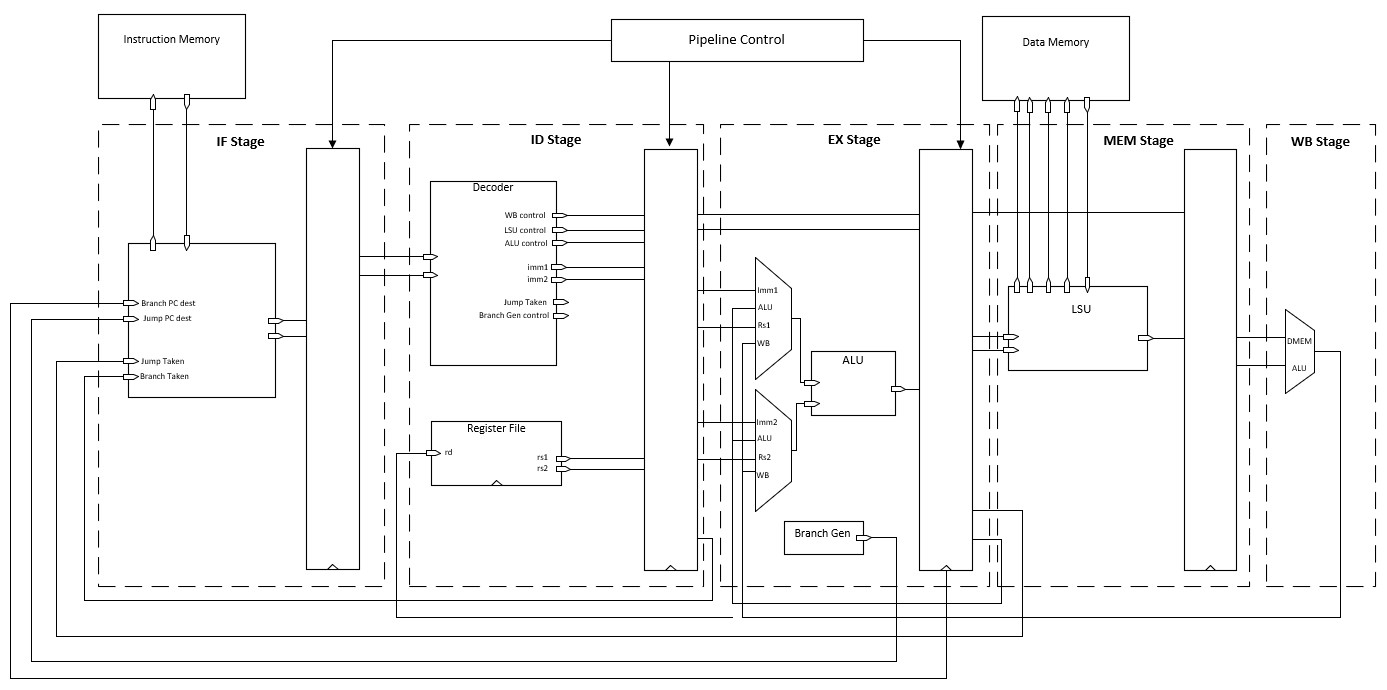
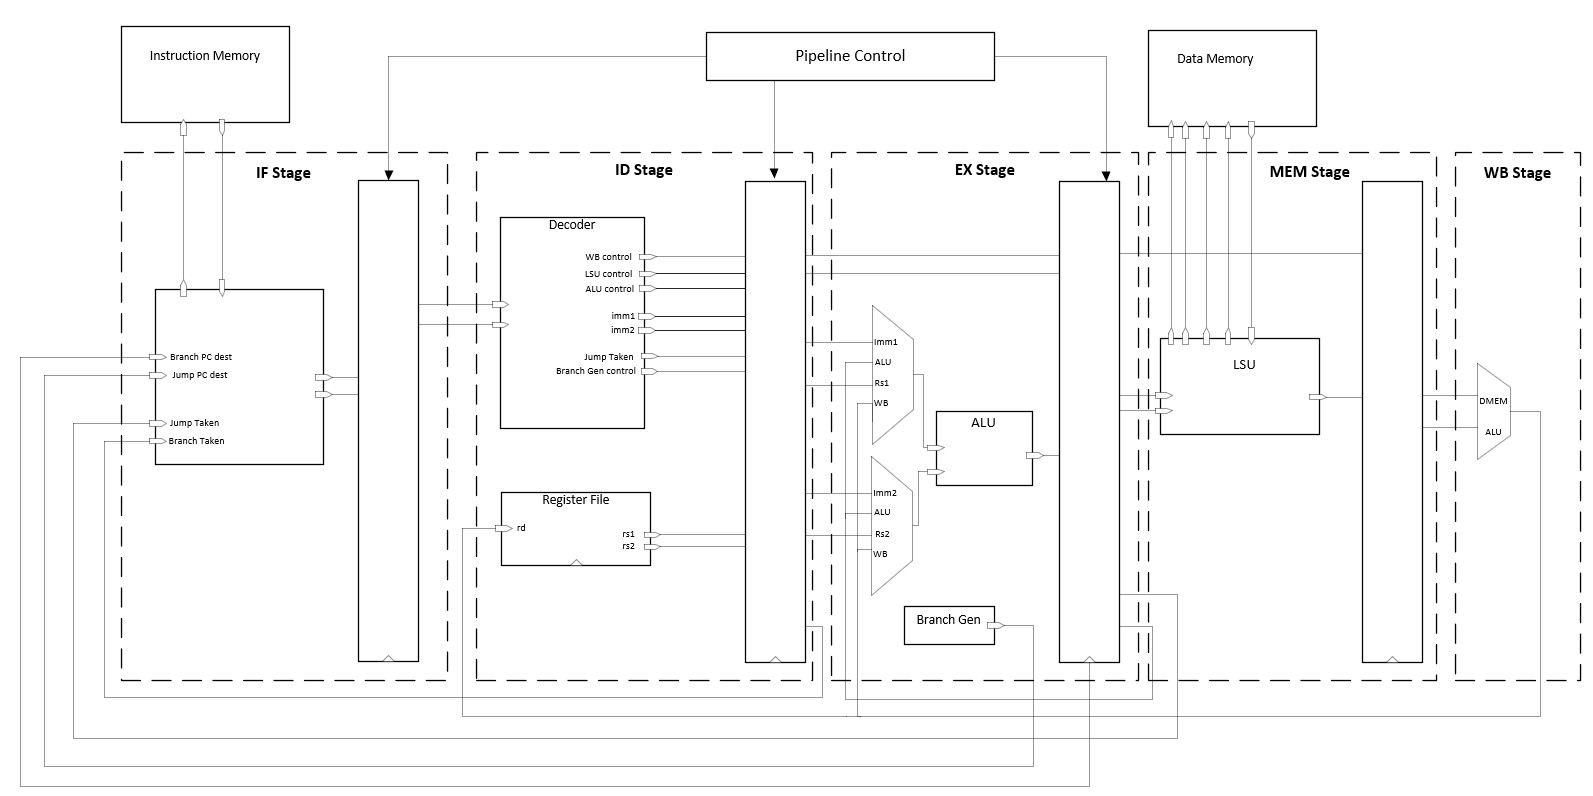
documentation update
- added more images
- updated readthedocs

diff --git a/docs/_build/html/searchindex.js b/docs/_build/html/searchindex.js
@@ -1,1 +1,1 @@
-Search.setIndex({docnames:["execute","index","instruction_decode","instruction_fetch","mem","pipeline_details"],envversion:{"sphinx.domains.c":2,"sphinx.domains.changeset":1,"sphinx.domains.citation":1,"sphinx.domains.cpp":4,"sphinx.domains.index":1,"sphinx.domains.javascript":2,"sphinx.domains.math":2,"sphinx.domains.python":3,"sphinx.domains.rst":2,"sphinx.domains.std":2,sphinx:56},filenames:["execute.rst","index.rst","instruction_decode.rst","instruction_fetch.rst","mem.rst","pipeline_details.rst"],objects:{},objnames:{},objtypes:{},terms:{"11":0,"2":1,"32":2,"5":5,"byte":4,"function":2,"new":3,AND:0,As:3,IF:[1,2,5],In:[3,4],It:[0,2],OR:0,On:[3,4],The:[0,2,3,4,5],_pipelin:[],abov:4,access:[3,4,5],activ:2,ad:1,add:0,address:[2,3,4],after:3,align:3,all:[1,2,4,5],allow:[3,4],also:[1,2],altern:2,although:1,alu:[1,2,5],an:2,ar:[2,3,4,5],arithmet:0,assert:3,assum:2,back:5,base:[0,1,2,5],been:1,beq:3,bit:2,block:2,boot:3,boot_addr_i:3,branch:[1,2],bu:3,can:[2,3],capabl:0,caption:[],center:[],check:5,classic:5,clock:[2,3,4],combinatori:[0,2,5],comment:2,compos:5,compris:[0,2],comput:[0,4],condit:[0,1,2],contain:2,content:[],control:[0,1,2],correct:[0,5],correspond:[3,4],csr:1,cycl:[2,3,4,5],data:[2,4,5],decod:[0,1,5],denot:3,destin:3,detail:1,determin:0,diagram:[3,4],differ:0,dmem_addr_o:4,dmem_rd_data_i:4,doe:[1,2],drive:3,ebreak:1,ecal:1,edg:[2,3],either:0,equal:0,event:3,ex:[1,2,4,5],exampl:3,except:1,execut:[1,2,3,5],featur:1,fenc:1,fetch:[1,2,4,5],figur:[],file:[1,5],flip:2,flop:[2,3],follow:[3,5],formal:1,forward:5,four:3,fourth:[3,4],from:[1,2,3,5],futur:1,gen:[1,2],gener:[0,5],ha:[1,2,5],handl:[1,3,4,5],have:2,hazard:5,howev:4,id:[1,3,5],id_jump_en_i:3,id_jump_en_o:2,if_stag:[],imag:[],imem_addr_o:3,imem_data_i:3,immedi:2,implement:[0,1,2],implemet:0,includ:2,index:[],initi:3,instruct:[1,4,5],instruction_fetch:[],integ:1,interfac:[3,5],interrupt:1,isa:1,its:[2,3],jal:[2,3],jalr:[2,3],jump:[1,2],jump_addr:3,lb:4,left:0,less:0,load:[1,5],logic:[0,2,5],low:2,mai:1,manner:3,mask:4,maxdepth:[],mem:[1,5],mem_dout_o:4,memori:[1,2,3,5],misalign:[3,4],modul:5,mux:[0,5],name:[],need:2,next:[3,4],normal:1,offici:1,offset:0,one:[2,5],onli:2,onto:3,oper:[0,1,2,5],operand:[0,5],out:2,output:[2,5],page:[],pass:3,pc:[0,3],perform:5,pipelin:[1,3],pipeline_detail:[],place:[3,4],png:[],port:2,primit:2,process:[2,4],ram32m:2,rd:2,read:[2,5],ref:[],regist:[0,1,5],rel:0,repo:1,request:2,requir:[2,3,5],reset:[2,3],respons:0,result:[3,5],right:0,riscv:1,rise:[2,3],routin:2,rs1:2,rs2:2,rtl:[0,2,3,5],rv32i:1,rv32ui:1,same:[2,3,4],search:[],second:4,see:5,seen:3,separ:5,serv:4,set:[0,2,3],shift:0,show:4,signal:[0,2,5],so:2,softwar:2,stage:[1,5],stall:5,store:[1,5],subset:1,subtract:0,support:1,synchron:2,taken:[0,1,2],target:0,test:[0,1],than:0,thi:[2,3,5],time:[3,4],toast:5,toast_alu:0,toast_branchgen:0,toast_control:5,toast_decod:2,toast_ex_stag:0,toast_id_stag:2,toast_if_stag:3,toast_mem_stag:4,toast_regfil:2,toctre:[],total:3,two:[0,2,3],uncompress:2,uncondit:[2,3],unit:[0,1,4],unsign:0,until:2,us:[0,1,2],user:2,valu:3,verifi:1,verilog:1,version:1,via:[3,5],wb:5,well:0,when:3,whether:[0,5],word:3,write:[2,4,5],writeback:5,written:[1,2,5],xor:0},titles:["Execute Stage (EX)","Toast: A 32-bit RISC-V Core","Instruction Decode Stage (ID)","Instruction Fetch Stage (IF)","Memory Stage (MEM)","Pipeline Details"],titleterms:{"32":1,A:1,IF:3,alu:0,bit:1,branch:[0,3],condit:3,content:1,control:5,core:1,decod:2,detail:5,document:[],ex:0,execut:0,fetch:3,file:2,gen:0,id:2,indic:[],instruct:[2,3],jump:3,load:4,mem:4,memori:4,normal:3,oper:3,pipelin:5,regist:2,risc:1,s:[],stage:[0,2,3,4],store:4,tabl:[],taken:3,toast:1,toastcor:[],v:1,welcom:[]}})
+Search.setIndex({docnames:["execute","index","instruction_decode","instruction_fetch","mem","pipeline_details"],envversion:{"sphinx.domains.c":2,"sphinx.domains.changeset":1,"sphinx.domains.citation":1,"sphinx.domains.cpp":4,"sphinx.domains.index":1,"sphinx.domains.javascript":2,"sphinx.domains.math":2,"sphinx.domains.python":3,"sphinx.domains.rst":2,"sphinx.domains.std":2,sphinx:56},filenames:["execute.rst","index.rst","instruction_decode.rst","instruction_fetch.rst","mem.rst","pipeline_details.rst"],objects:{},objnames:{},objtypes:{},terms:{"11":0,"2":1,"32":2,"5":5,"byte":4,"function":2,"new":3,AND:0,As:3,For:5,IF:[1,2,5],In:[3,4],It:[0,2,3],OR:0,On:[3,4],The:[0,2,3,4,5],_pipelin:[],abov:4,access:[3,4,5],activ:2,ad:1,add:0,address:[2,3,4],after:3,align:3,all:[1,2,4,5],allow:[3,4],also:[1,2,3],altern:2,although:1,alu:[1,2,5],an:2,ar:[2,3,4,5],arithmet:0,assert:3,assum:2,back:5,base:[0,1,2,5],been:1,being:3,beq:3,bit:2,block:2,boot:[],boot_addr_i:[],branch:[1,2],bu:3,can:2,capabl:0,caption:[],center:[],check:5,classic:5,clock:[2,3,4],combinatori:[0,2,5],comment:2,compos:5,compris:[0,2],comput:[0,4],condit:[0,1,2],contain:[2,5],content:[],control:[0,1,2],correct:[0,5],correspond:[3,4],csr:1,cycl:[2,3,4,5],data:[2,4,5],decod:[0,1,5],denot:3,destin:3,detail:1,determin:0,diagram:[3,4],differ:0,dmem_addr_o:4,dmem_rd_data_i:4,doe:[1,2],drive:3,ebreak:1,ecal:1,edg:[2,3],either:0,equal:0,event:3,ex:[1,2,4,5],exampl:3,except:1,execut:[1,2,3,5],featur:1,fenc:1,fetch:[1,2,4,5],figur:[],file:[1,5],flip:2,flop:[2,3],follow:[3,5],formal:1,forward:5,four:3,fourth:[3,4],from:[1,2,3,5],futur:1,gen:[1,2],gener:[0,5],ha:[1,2,5],handl:[1,3,4,5],have:2,hazard:5,howev:4,id:[1,3,5],id_jump_en_i:3,id_jump_en_o:2,if_stag:[],imag:[],imem_addr_o:3,imem_data_i:3,immedi:2,implement:[0,1,2],implemet:0,includ:2,index:[],initi:[],instruct:[1,4,5],instruction_fetch:[],integ:1,interfac:[3,5],interrupt:1,isa:1,its:[2,3],jal:[2,3],jalr:[2,3],jump:[1,2],jump_addr:3,lb:4,left:0,less:0,load:[1,5],logic:[0,2,5],low:2,mai:1,manner:3,mask:4,maxdepth:[],mem:[1,5],mem_dout_o:4,memori:[1,2,3,5],misalign:[3,4],modul:5,mux:[0,5],name:[],need:2,next:[3,4],normal:1,now:5,offici:1,offset:0,one:[2,5],onli:[2,5],onto:3,oper:[0,1,2,5],operand:[0,5],out:2,output:[2,5],page:[],pass:[3,5],pc:[0,3],perform:5,pipelin:1,pipeline_detail:[],place:[3,4],png:[],port:2,primit:2,process:[2,4],ram32m:2,rd:2,read:2,ref:[],regist:[0,1,5],rel:0,repo:1,request:2,requir:[2,3,5],reset:2,respons:[0,3],result:[3,5],right:0,riscv:1,rise:[2,3],routin:2,rs1:2,rs2:2,rtl:[0,2,3,5],rv32i:1,rv32ui:1,same:[2,3,4],search:[],second:4,see:5,seen:3,separ:5,serv:[4,5],set:[0,2],shift:0,show:4,signal:[0,2,5],simpl:5,singl:5,so:2,softwar:2,stage:[1,5],stall:5,store:[1,5],subset:1,subtract:0,support:1,synchron:2,taken:[0,1,2],target:0,test:[0,1],than:0,thi:[2,3,5],through:5,time:[3,4],toast:5,toast_alu:0,toast_branchgen:0,toast_control:5,toast_decod:2,toast_ex_stag:0,toast_id_stag:2,toast_if_stag:3,toast_mem_stag:4,toast_regfil:2,toctre:[],total:3,two:[0,2,3],uncompress:2,uncondit:[2,3],unit:[0,1,4],unsign:0,until:2,us:[0,1,2],user:2,valu:3,verifi:1,verilog:1,version:1,via:5,wb:5,well:0,when:3,whether:[0,5],word:3,write:[2,4],writeback:5,written:[1,2,5],xor:0},titles:["Execute Stage (EX)","Toast: A 32-bit RISC-V Core","Instruction Decode Stage (ID)","Instruction Fetch Stage (IF)","Memory Stage (MEM)","Pipeline Details"],titleterms:{"32":1,A:1,IF:3,alu:0,bit:1,branch:[0,3],condit:3,content:1,control:5,core:1,decod:2,detail:5,document:[],ex:0,execut:0,fetch:3,file:2,gen:0,id:2,indic:[],instruct:[2,3],jump:3,load:4,mem:4,memori:4,normal:3,oper:3,pipelin:5,regist:2,risc:1,s:[],stage:[0,2,3,4],store:4,tabl:[],taken:3,toast:1,toastcor:[],v:1,welcom:[]}})

diff --git a/docs/_build/html/instruction_fetch.html b/docs/_build/html/instruction_fetch.html
@@ -168,8 +168,10 @@
             
   <div class="section" id="instruction-fetch-stage-if">
 <span id="instruction-fetch"></span><h1>Instruction Fetch Stage (IF)<a class="headerlink" href="#instruction-fetch-stage-if" title="Permalink to this headline">¶</a></h1>
-<p>The Instruction Fetch stage (<code class="file docutils literal notranslate"><span class="pre">rtl/toast_IF_stage</span></code>) drives the instruction memory interface and fetches new instructions for the pipeline. The instruction memory is word-addressable and misaligned access is not allowed.</p>
-<p>The boot address on initialization or reset can be set via <strong>boot_addr_i</strong>.</p>
+<div class="figure align-center" id="if-simple">
+<img alt="_images/toast_IF_simple.jpg" src="_images/toast_IF_simple.jpg" />
+</div>
+<p>The Instruction Fetch stage (<code class="file docutils literal notranslate"><span class="pre">rtl/toast_IF_stage</span></code>) drives the instruction memory interface. It is also responsible for passing new instructions and corresponding PC value to the ID stage. The instruction memory is word-addressable and misaligned access is not allowed.</p>
 <div class="section" id="normal-operation">
 <h2>Normal Operation:<a class="headerlink" href="#normal-operation" title="Permalink to this headline">¶</a></h2>
 <div class="figure align-center" id="if-timing">
@@ -192,7 +194,7 @@
 <div class="figure align-center" id="if-jump-taken">
 <img alt="_images/IF_jump.png" src="_images/IF_jump.png" />
 </div>
-<p>Unconditional jumps (JAL and JALR) are handled in the same manner and require four cycles to execute.</p>
+<p>Unconditional jumps (JAL and JALR) are handled in the same manner and require four cycles to execute after being fetched.</p>
 </div>
 </div>
 

diff --git a/docs/_build/html/instruction_decode.html b/docs/_build/html/instruction_decode.html
@@ -167,6 +167,9 @@
             
   <div class="section" id="instruction-decode-stage-id">
 <span id="instruction-decode"></span><h1>Instruction Decode Stage (ID)<a class="headerlink" href="#instruction-decode-stage-id" title="Permalink to this headline">¶</a></h1>
+<div class="figure align-center" id="id-simple">
+<img alt="_images/toast_ID_simple.jpg" src="_images/toast_ID_simple.jpg" />
+</div>
 <p>The Instruction Decode stage (<code class="file docutils literal notranslate"><span class="pre">rtl/toast_ID_stage</span></code>) is comprised of the Decoder block and the Register File. It decodes the instruction fetched in the IF stage, fetches register file data based on the decoded addresses, and registers its outputs.</p>
 <div class="section" id="decoder">
 <h2>Decoder:<a class="headerlink" href="#decoder" title="Permalink to this headline">¶</a></h2>

diff --git a/docs/_build/html/execute.html b/docs/_build/html/execute.html
@@ -167,6 +167,9 @@
             
   <div class="section" id="execute-stage-ex">
 <span id="execute"></span><h1>Execute Stage (EX)<a class="headerlink" href="#execute-stage-ex" title="Permalink to this headline">¶</a></h1>
+<div class="figure align-center" id="ex-simple">
+<img alt="_images/toast_EX_simple.jpg" src="_images/toast_EX_simple.jpg" />
+</div>
 <p>The Execute Stage (<code class="file docutils literal notranslate"><span class="pre">rtl/toast_EX_stage</span></code>) is comprised of the ALU and Branch Gen unit. It is responsible for muxing the correct operands into the ALU as well as determining whether a conditional branch is taken or not.</p>
 <div class="section" id="alu">
 <h2>ALU:<a class="headerlink" href="#alu" title="Permalink to this headline">¶</a></h2>

diff --git a/docs/_build/html/mem.html b/docs/_build/html/mem.html
@@ -166,6 +166,9 @@
             
   <div class="section" id="memory-stage-mem">
 <span id="mem"></span><h1>Memory Stage (MEM)<a class="headerlink" href="#memory-stage-mem" title="Permalink to this headline">¶</a></h1>
+<div class="figure align-center" id="mem-simple">
+<img alt="_images/toast_MEM_simple.jpg" src="_images/toast_MEM_simple.jpg" />
+</div>
 <p>The Memory Stage (<code class="file docutils literal notranslate"><span class="pre">toast_MEM_stage</span></code>) handles all data memory loads and stores and serves as the Load Store Unit. The data memory is byte-addressable, however misaligned loads and stores are not allowed.</p>
 <div class="section" id="loads">
 <h2>Loads:<a class="headerlink" href="#loads" title="Permalink to this headline">¶</a></h2>

diff --git a/docs/_build/html/pipeline_details.html b/docs/_build/html/pipeline_details.html
@@ -179,7 +179,7 @@
 </dd>
 <dt>Memory Access (MEM)</dt><dd><p>All loads and stores are handled in this stage. See <a class="reference internal" href="mem.html#mem"><span class="std std-ref">Memory Stage (MEM)</span></a> for details.</p>
 </dd>
-<dt>Writeback (WB)</dt><dd><p>Handles register file writes, controls whether memory read data or ALU result is written back to register file. See <span class="xref std std-ref">writeback</span> for details.</p>
+<dt>Writeback (WB)</dt><dd><p>For now serves as a simple pass through back to the register file, containing only a single mux that controls whether memory data or the ALU result is written.</p>
 </dd>
 </dl>
 <div class="section" id="pipeline-control">

diff --git a/README.md b/README.md
@@ -2,23 +2,23 @@
 
 - Toast is a RISC-V soft core written in Verilog that implements a subset of the [RV32I ISA version 2.2](https://riscv.org/wp-content/uploads/2017/05/riscv-spec-v2.2.pdf).
 
-- Documentation: https://toast-core.readthedocs.io/en/latest/
+- Documentation (wip): https://toast-core.readthedocs.io/en/latest/
 
 - Goals: 
 
      - Produce a core that is capable of running the RV32ui unit tests from official [riscv-tests](https://github.com/riscv/riscv-tests) repo
-     - Gain familiarity with open-source tools 
-     - Gain familiarity with Linux environment 
+     - Pass timing at 100 MHz
+     - Gain familiarilty with open-source tools and Linux environment
 
 - Stretch Goals:
      - Memory-mapped I/O and UART peripheral
-     - Add Zicsr extension support
-     - Add ISR handling
-     - Formal Verification
+     - Zicsr extension support
+     - ISR handling
+     - UVM and/or Formal Verification
 
 
 
-- Toast currently is capable of passing all RV32ui unit tests and has passed timing at 50MHz, however has not been tested on hardware until updated here.
+- Toast currently is capable of passing all RV32ui unit tests and has passed timing at \~83MHz, however has not been tested on hardware until updated here.
 
 - Toast does not support interrupt handling, nor the CSR, FENCE, EBREAK, or ECALL instructions.
 
@@ -29,7 +29,7 @@ __Makefile__
 Run ```make alltests``` to compile, link and convert riscv-tests to hex memory files and run the entire battery of tests. 
 Run ```make alltest_vcd``` to run all tests and generate a vcd file.
 
-Memory generation requires a 32-bit riscv-unknown-elf toolchain installed at /opt/riscv32i, as well as [elf2hex](https://github.com/sifive/elf2hex). Testbench is ran using Icarus Verilog. See the Makefile targets for more details.
+Memory generation requires a [32-bit riscv-unknown-elf](https://github.com/cliffordwolf/picorv32#building-a-pure-rv32i-toolchain) toolchain installed at /opt/riscv32i, as well as [elf2hex](https://github.com/sifive/elf2hex) for memory generation. Testbench is ran using Icarus Verilog. See the Makefile targets for more details.
 
 __/docs__
 - Contains datapath diagrams and notes, wip
@@ -44,18 +44,6 @@ __/test__
 - Contains the riscv-tests, testbench, and GTKwave translate filter files/processes
 
 
-<h1> Performance </h1>
-
-|Instruction | CPI|
-|------------|----|
-Direct Jump (JAL) | 3
-Indirect Jump (JALR) | 3
-ALU reg-reg | 3
-ALU reg-imm | 3
-Cond. Branch (Not Taken) | 3
-Cond. Branch (Taken) | 5
-Memory Load | 5
-Memory Store | 4
 
 
 

diff --git a/docs/instruction_fetch.rst b/docs/instruction_fetch.rst
@@ -3,9 +3,12 @@
 Instruction Fetch Stage (IF)
 ============================
 
-The Instruction Fetch stage (:file:`rtl/toast_IF_stage`) drives the instruction memory interface and fetches new instructions for the pipeline. The instruction memory is word-addressable and misaligned access is not allowed.
+.. figure:: images/toast_IF_simple.jpg
+    :name: if_simple
+    :align: center
 
-The boot address on initialization or reset can be set via **boot_addr_i**.
+The Instruction Fetch stage (:file:`rtl/toast_IF_stage`) drives the instruction memory interface. It is also responsible for passing new instructions and corresponding PC value to the ID stage. The instruction memory is word-addressable and misaligned access is not allowed.
+
 
 Normal Operation:
 -----------------
@@ -40,4 +43,4 @@ Jump Taken:
     :name: if_jump_taken
     :align: center
 
-Unconditional jumps (JAL and JALR) are handled in the same manner and require four cycles to execute.
+Unconditional jumps (JAL and JALR) are handled in the same manner and require four cycles to execute after being fetched.

diff --git a/docs/index.rst b/docs/index.rst
@@ -12,7 +12,7 @@ Toast: A 32-bit RISC-V Core
 
 Toast is a 32-bit RISC-V core written in Verilog that implements a subset of the RV32I ISA version 2.2.
 
-Toast supports all instructions from the RV32i base integer ISA with the exception of CSR, FENCE, EBREAK, and ECALL. Toast also does not support interrupt handling, although these features may be added in the future.
+Toast supports all instructions from the RV32i base integer ISA with the exception of CSR, FENCE, EBREAK, and ECALL. Toast also does not support interrupt handling, although these features may be added in the future. 
 
 Toast has been tested using the official RV32ui unit tests from the riscv-tests repo but has not been formally verified. 
 

diff --git a/docs/pipeline_details.rst b/docs/pipeline_details.rst
@@ -22,7 +22,7 @@ Memory Access (MEM)
 	All loads and stores are handled in this stage. See :ref:`mem` for details.
 
 Writeback (WB)
-	Handles register file writes, controls whether memory read data or ALU result is written back to register file. See :ref:`writeback` for details.
+	For now serves as a simple pass through back to the register file, containing only a single mux that controls whether memory data or the ALU result is written. 
 
 
 Pipeline Control

diff --git a/docs/instruction_decode.rst b/docs/instruction_decode.rst
@@ -3,6 +3,10 @@
 Instruction Decode Stage (ID)
 =============================
 
+.. figure:: images/toast_ID_simple.jpg
+    :name: id_simple
+    :align: center
+
 The Instruction Decode stage (:file:`rtl/toast_ID_stage`) is comprised of the Decoder block and the Register File. It decodes the instruction fetched in the IF stage, fetches register file data based on the decoded addresses, and registers its outputs.
 
 

diff --git a/docs/execute.rst b/docs/execute.rst
@@ -3,6 +3,10 @@
 Execute Stage (EX)
 ==================
 
+.. figure:: images/toast_EX_simple.jpg
+    :name: ex_simple
+    :align: center
+
 The Execute Stage (:file:`rtl/toast_EX_stage`) is comprised of the ALU and Branch Gen unit. It is responsible for muxing the correct operands into the ALU as well as determining whether a conditional branch is taken or not.
 
 
